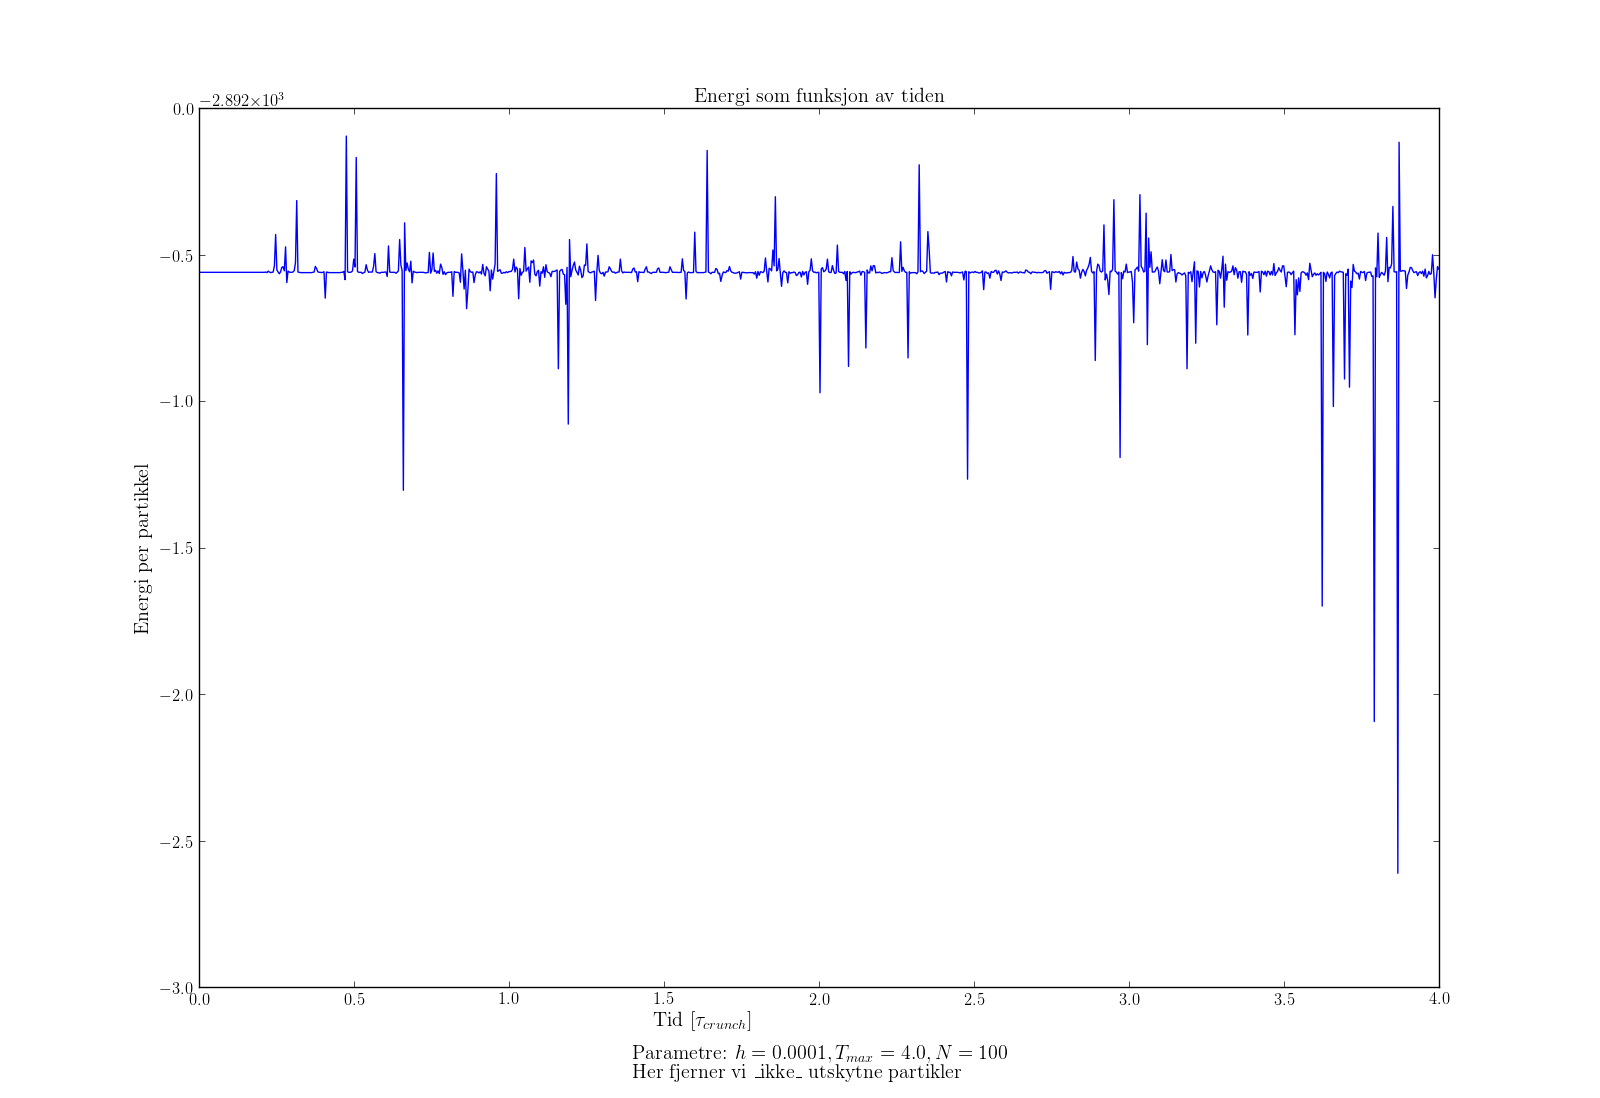
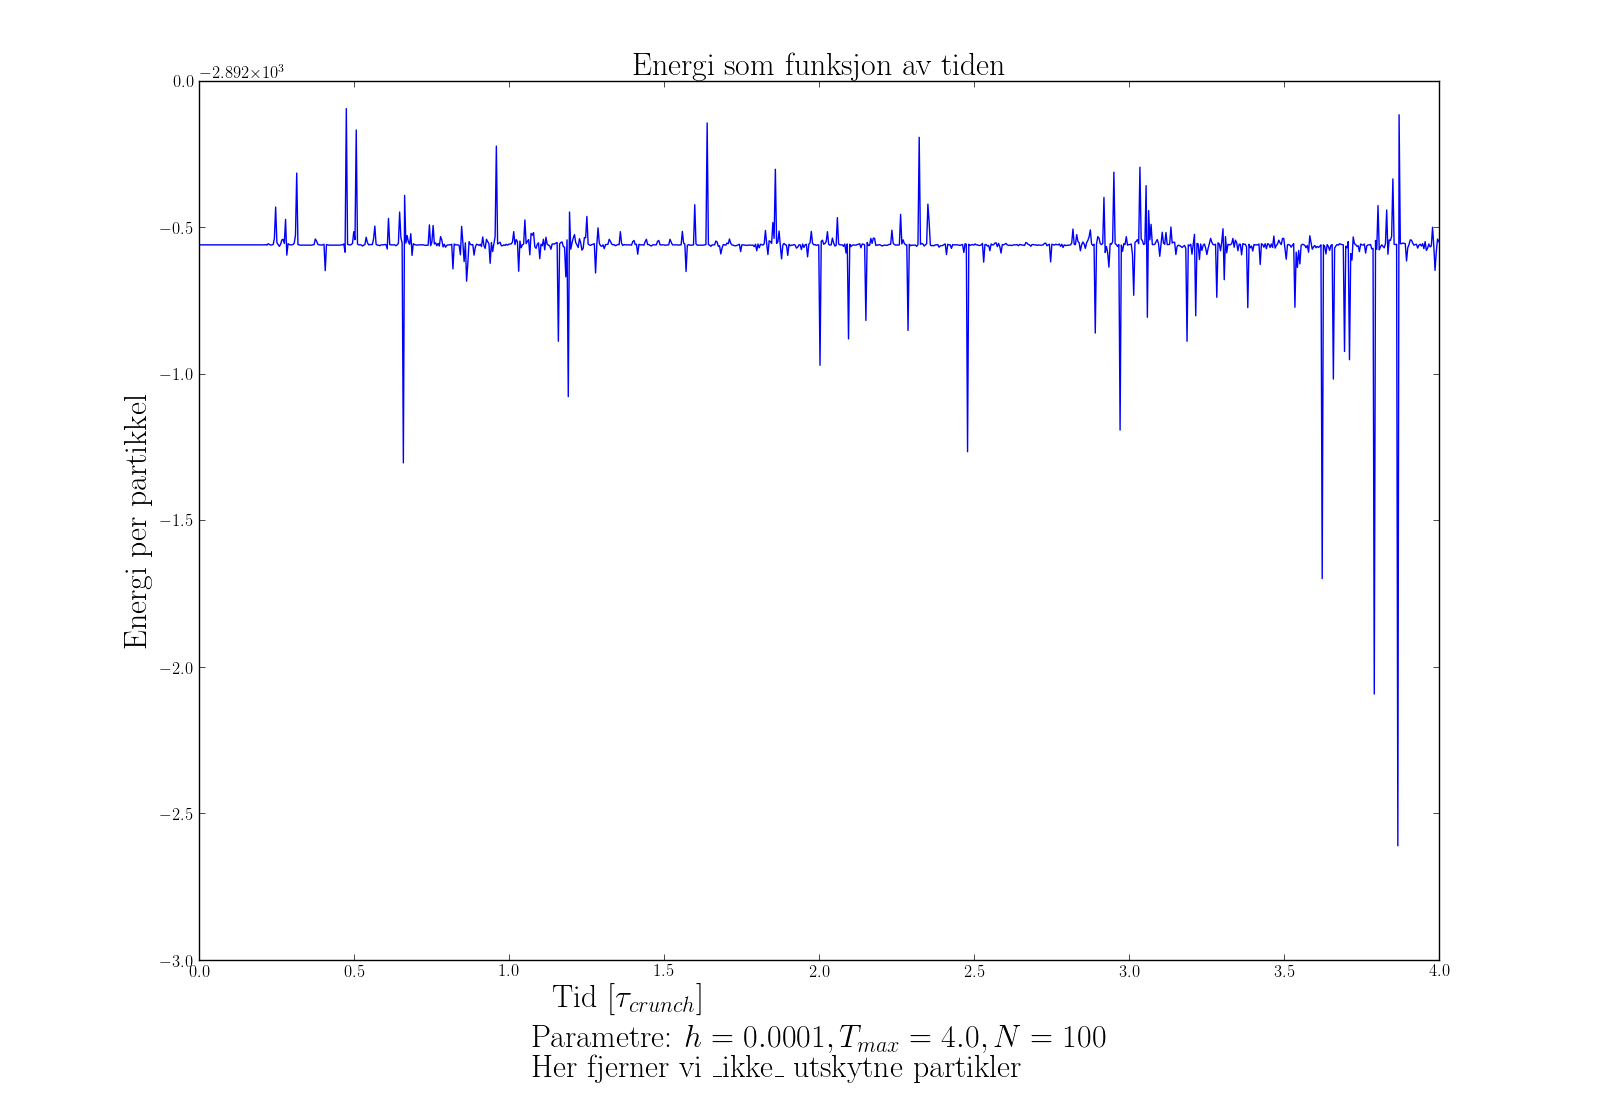
Pynting.

diff --git a/project5/src/plot_energy.py b/project5/src/plot_energy.py
@@ -28,11 +28,11 @@ plt.rc('font', **{'family': 'serif', 'serif': ['Computer Modern']})
 plt.rc('text', usetex = True)
 fig, ax = plt.subplots()
 ax.plot(t_array, data[:,0]/N)
-ax.set_title(r'Energi som funksjon av tiden', fontsize='large')
+ax.set_title(r'Energi som funksjon av tiden', size=23)
 ax.set_xlabel(r'Tid  [$\tau_{crunch}$] \\ \\' \
            + r'Parametre: $h = %g, T_{max} = %.1f, N = %d$ \\' \
-           %(exp(logh), Tmax, N) + s, fontsize='large')
-ax.set_ylabel(r'Energi per partikkel', fontsize='large')
+              %(exp(logh), Tmax, N) + s, size=23)
+ax.set_ylabel(r'Energi per partikkel', size=23)
 box = ax.get_position()
 ax.set_position([box.x0, box.y0*1.25, box.width, box.height])
 plt.show()

diff --git a/project5/src/energy_many_N.py b/project5/src/energy_many_N.py
@@ -29,12 +29,12 @@ for N in Nlist:
     ax.plot(t_array, (-data[:,0]/N)/max(data[:,0]/N), label=r"$N=%d$" % N)
 
 
-ax.set_title(r'Energi som funksjon av tiden', fontsize='large')
+ax.set_title(r'Energi som funksjon av tiden', size=23)
 ax.set_xlabel(r'Tid  [$\tau_{crunch}$] \\ \\' \
            + r'Parametre: $h = %g, T_{max} = %.1f, N = %d$ \\' \
-           %(exp(logh), Tmax, N) + s, fontsize='large')
-ax.set_ylabel(r'Energi per partikkel', fontsize='large')
-ax.legend()
+              %(exp(logh), Tmax, N) + s, size=23)
+ax.set_ylabel(r'Energi per partikkel', size=23)
+ax.legend(prop={'size':16})
 box = ax.get_position()
 ax.set_position([box.x0, box.y0*1.25, box.width, box.height])
 plt.show()

diff --git a/project5/src/viralTheorem.py b/project5/src/viralTheorem.py
@@ -38,9 +38,10 @@ ax.plot(t_array, -Potential_energy[eq:]/Kinetic_energy[eq:],
 ax.plot(t_array, ones_like(Potential_energy[eq:])*2,label='Theorem')
 ax.set_xlabel(r'Tid  [$\tau_{crunch}$] \\ \\' \
            + r'Parametre: $h = %g, T_{max} = %.1f, N = %d$ \\' \
-           %(exp(logh), Tmax, N) + s, fontsize='large')
-ax.set_ylabel(r'$-\langle V\rangle / \langle K\rangle$')
-ax.legend()
+              %(exp(logh), Tmax, N) + s, size=23)
+ax.set_ylabel(r'$-\langle V\rangle / \langle K\rangle$', size=23)
+ax.set_title(r'En test av viralteoremet', size = 23)
+ax.legend(prop={'size':16})
 box = ax.get_position()
 ax.set_position([box.x0, box.y0*1.25, box.width, box.height])
 
